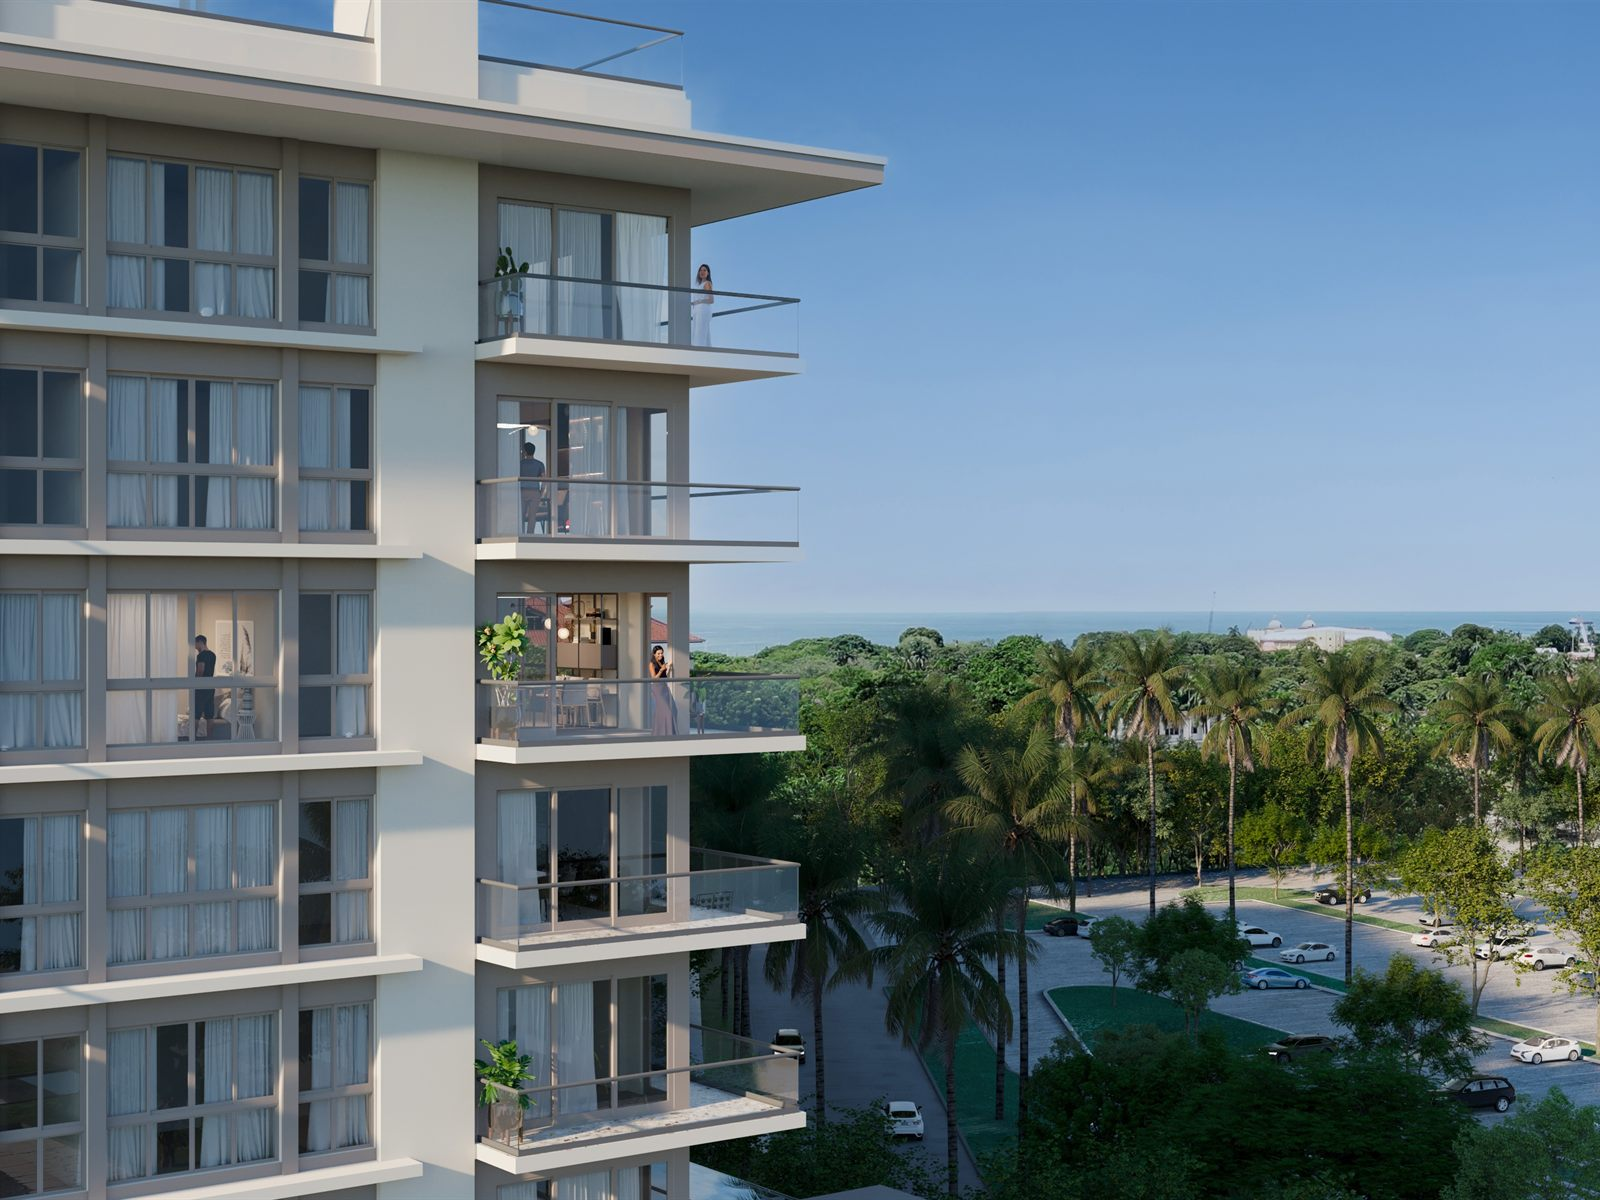
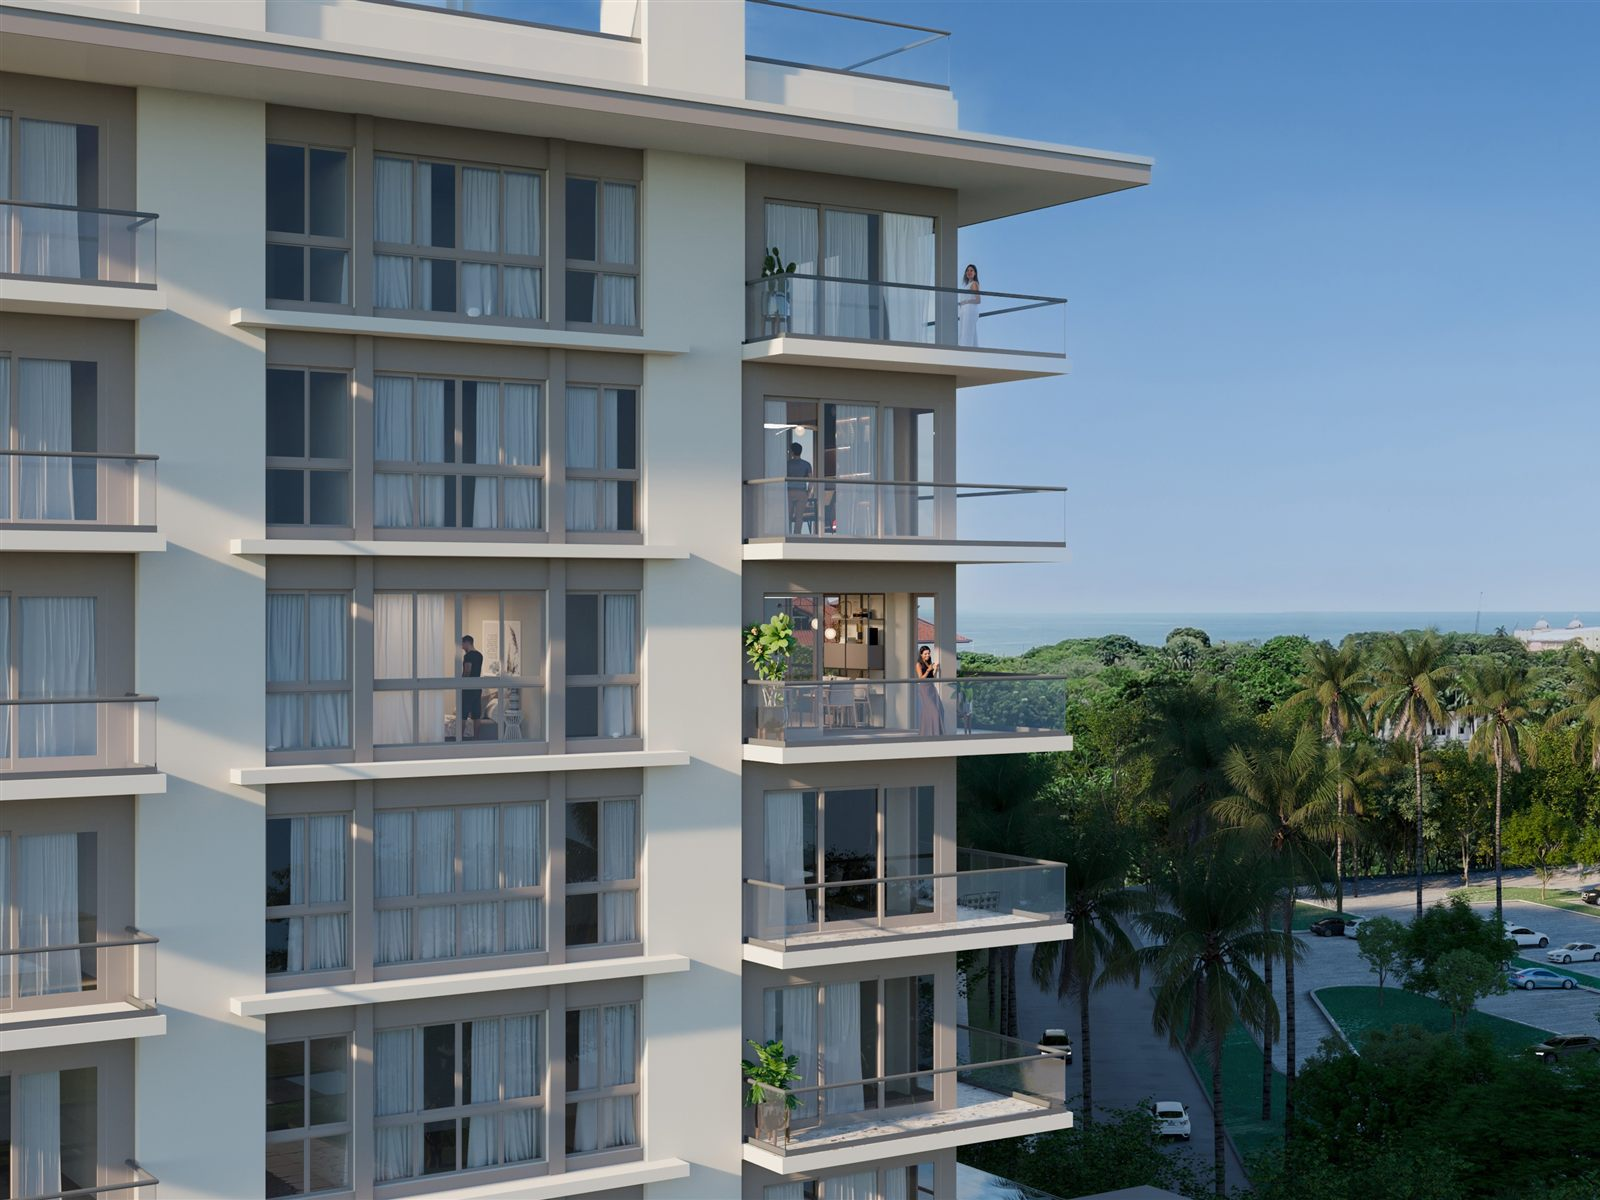
Layout polish after live review

diff --git a/index.html b/index.html
@@ -129,7 +129,7 @@
         <!-- points -->
         <g class="map-point" data-point="ciudad">
           <circle cx="600" cy="120" r="3.5"/>
-          <text x="612" y="124">Ciudad de Panamá</text>
+          <text x="588" y="124" text-anchor="end">Ciudad de Panamá</text>
         </g>
         <g class="map-point" data-point="casco">
           <circle cx="165" cy="380" r="3.5"/>
@@ -171,7 +171,7 @@
       <span class="idx">03</span>
       <span class="idx-label">Residencias</span>
     </div>
-    <h2 class="residences__title reveal">Espacio para una<br>vida extraordinaria</h2>
+    <h2 class="residences__title reveal">Espacio para<br>una vida<br>extraordinaria</h2>
   </div>
 
   <div class="residences__body">

diff --git a/styles.css b/styles.css
@@ -864,3 +864,11 @@ address { font-style: normal; }
 .section-index .idx { color: var(--green); }
 .section-index--light .idx { color: var(--sunset); }
 .intro__index .idx { color: var(--green); }
+
+/* Layout polish after live review */
+.location__inner { align-items: start; }
+.location__map { min-height: 0; aspect-ratio: 720 / 820; }
+.location__title { font-size: clamp(44px, 4.8vw, 76px); }
+.residences__title { font-size: clamp(52px, 6.2vw, 104px); }
+.contact__title { font-size: clamp(44px, 4.4vw, 72px); }
+.gallery__title { font-size: clamp(52px, 6.4vw, 104px); }
